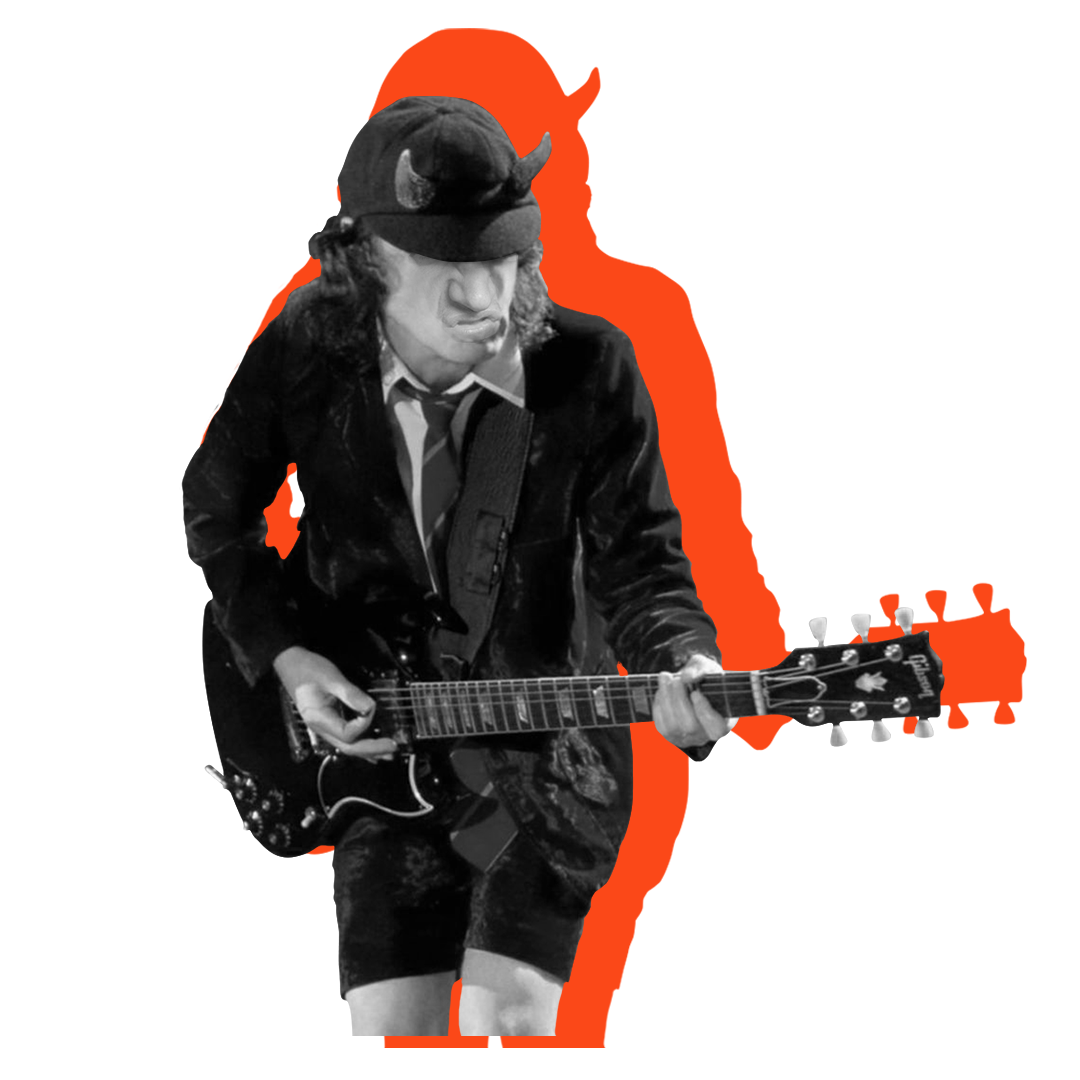
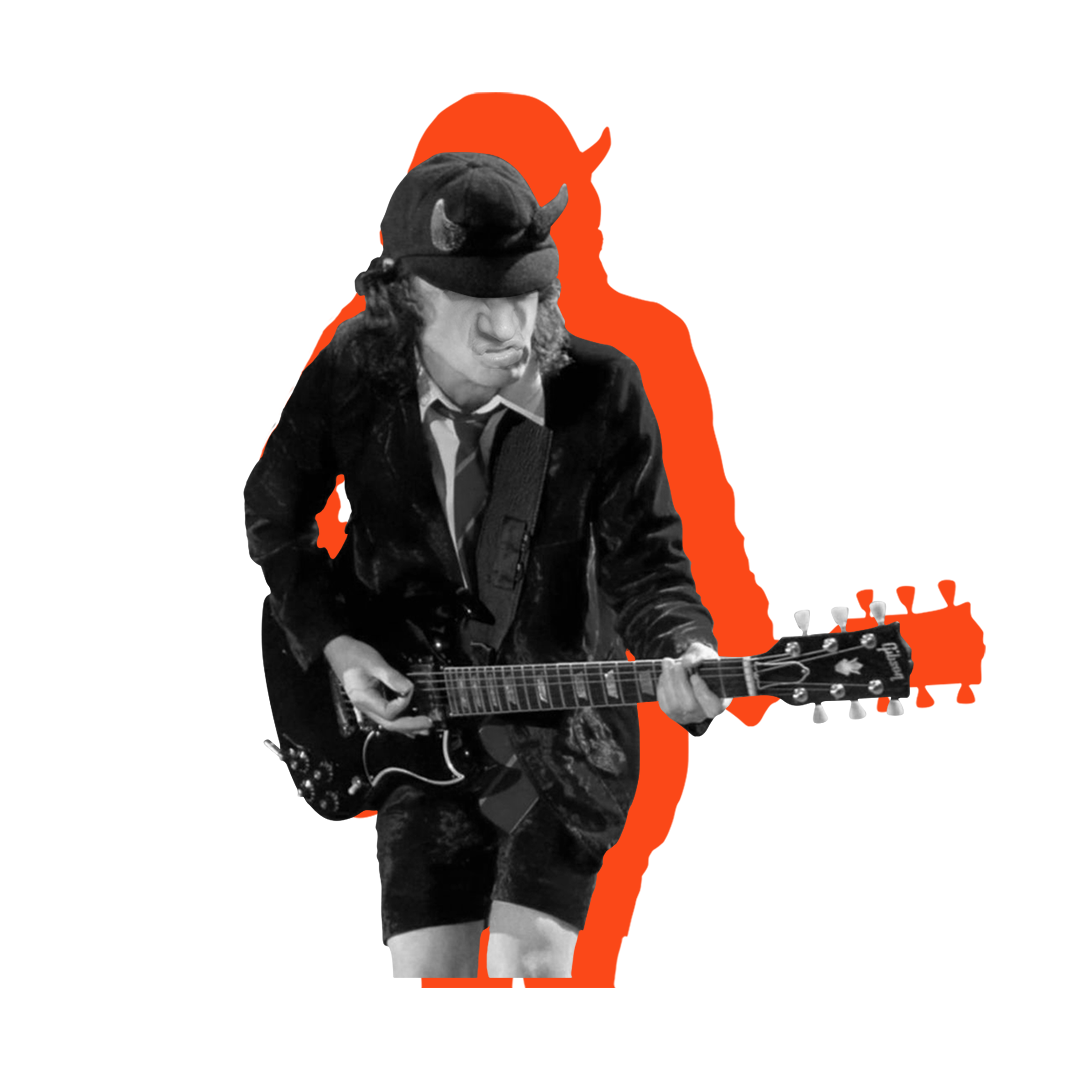
Refactor background image import style, update images

Changed region(s): [[0.1528, 0.0, 0.9472, 0.9778], [0.6417, 0.3056, 0.6722, 0.4278], [0.6111, 0.4583, 0.6417, 0.4889]]

diff --git a/src/pages/Member/Member.js b/src/pages/Member/Member.js
@@ -7,6 +7,7 @@ import Contact from '../../components/Contact/Contact';
 import './Member.scss';
 
 import team from '../../data/team.json';
+import teamPics from '../../assets/images/membersPics';
 
 const Member = props => {
   const {
@@ -16,9 +17,13 @@ const Member = props => {
   } = props;
 
   const member = team[id];
+  const memberPic = teamPics[id];
 
   return (
-    <div className={`MemberPage MemberPage--${id}`}>
+    <div
+      className={`MemberPage MemberPage--${id}`}
+      style={{ backgroundImage: `url(${memberPic})` }}
+    >
       <SideMenuContainer />
       <div className="MemberPage__wrapper">
         <h1 className="MemberPage__name">{member.name}</h1>

diff --git a/src/pages/Member/Member.scss b/src/pages/Member/Member.scss
@@ -18,22 +18,6 @@ body {
   background-position: right top;
   background-size: contain;
 
-  &--0 {
-    background-image: url('../../assets/images/membersPics/photo-0.png');
-  }
-  &--1 {
-    background-image: url('../../assets/images/membersPics/photo-1.png');
-  }
-  &--2 {
-    background-image: url('../../assets/images/membersPics/photo-2.png');
-  }
-  &--3 {
-    background-image: url('../../assets/images/membersPics/photo-3.png');
-  }
-  &--4 {
-    background-image: url('../../assets/images/membersPics/photo-4.png');
-  }
-
   &__wrapper {
     width: 80%;
     padding: 15% 0 0 20%;
